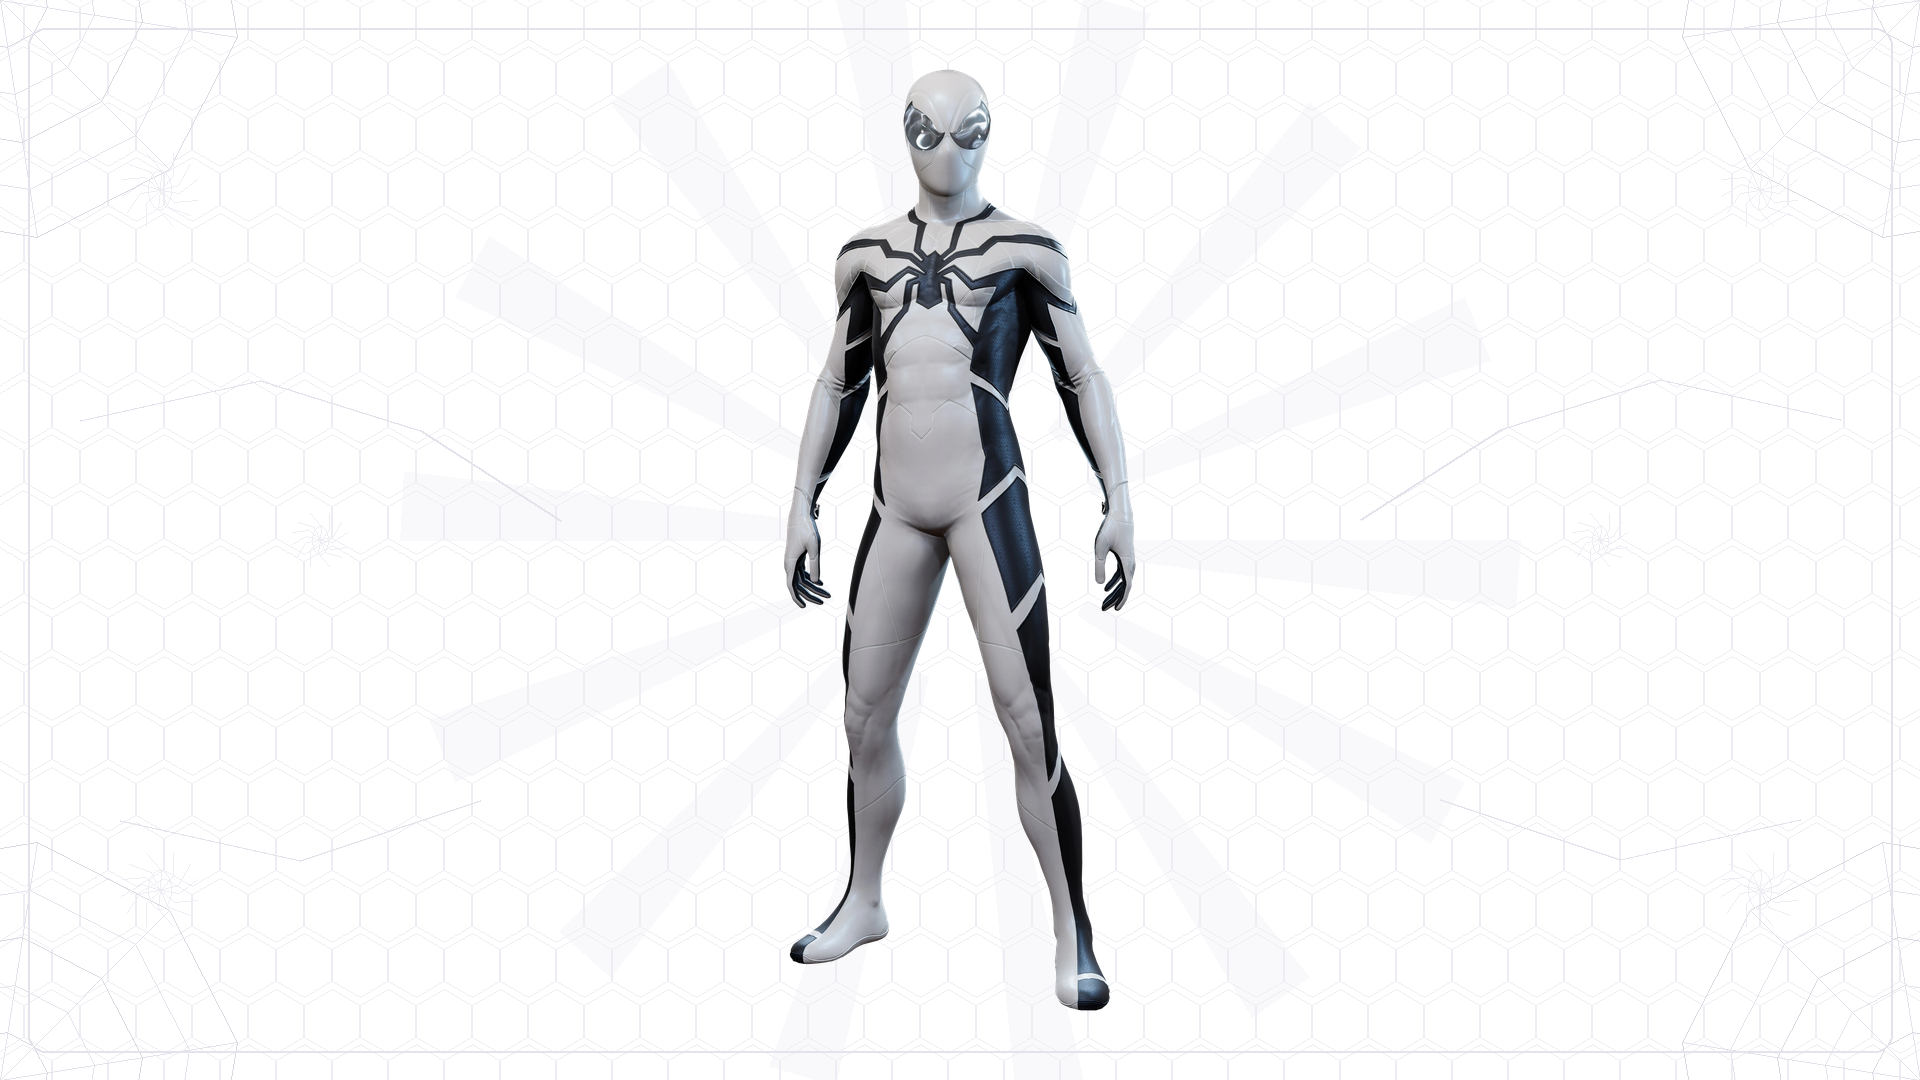
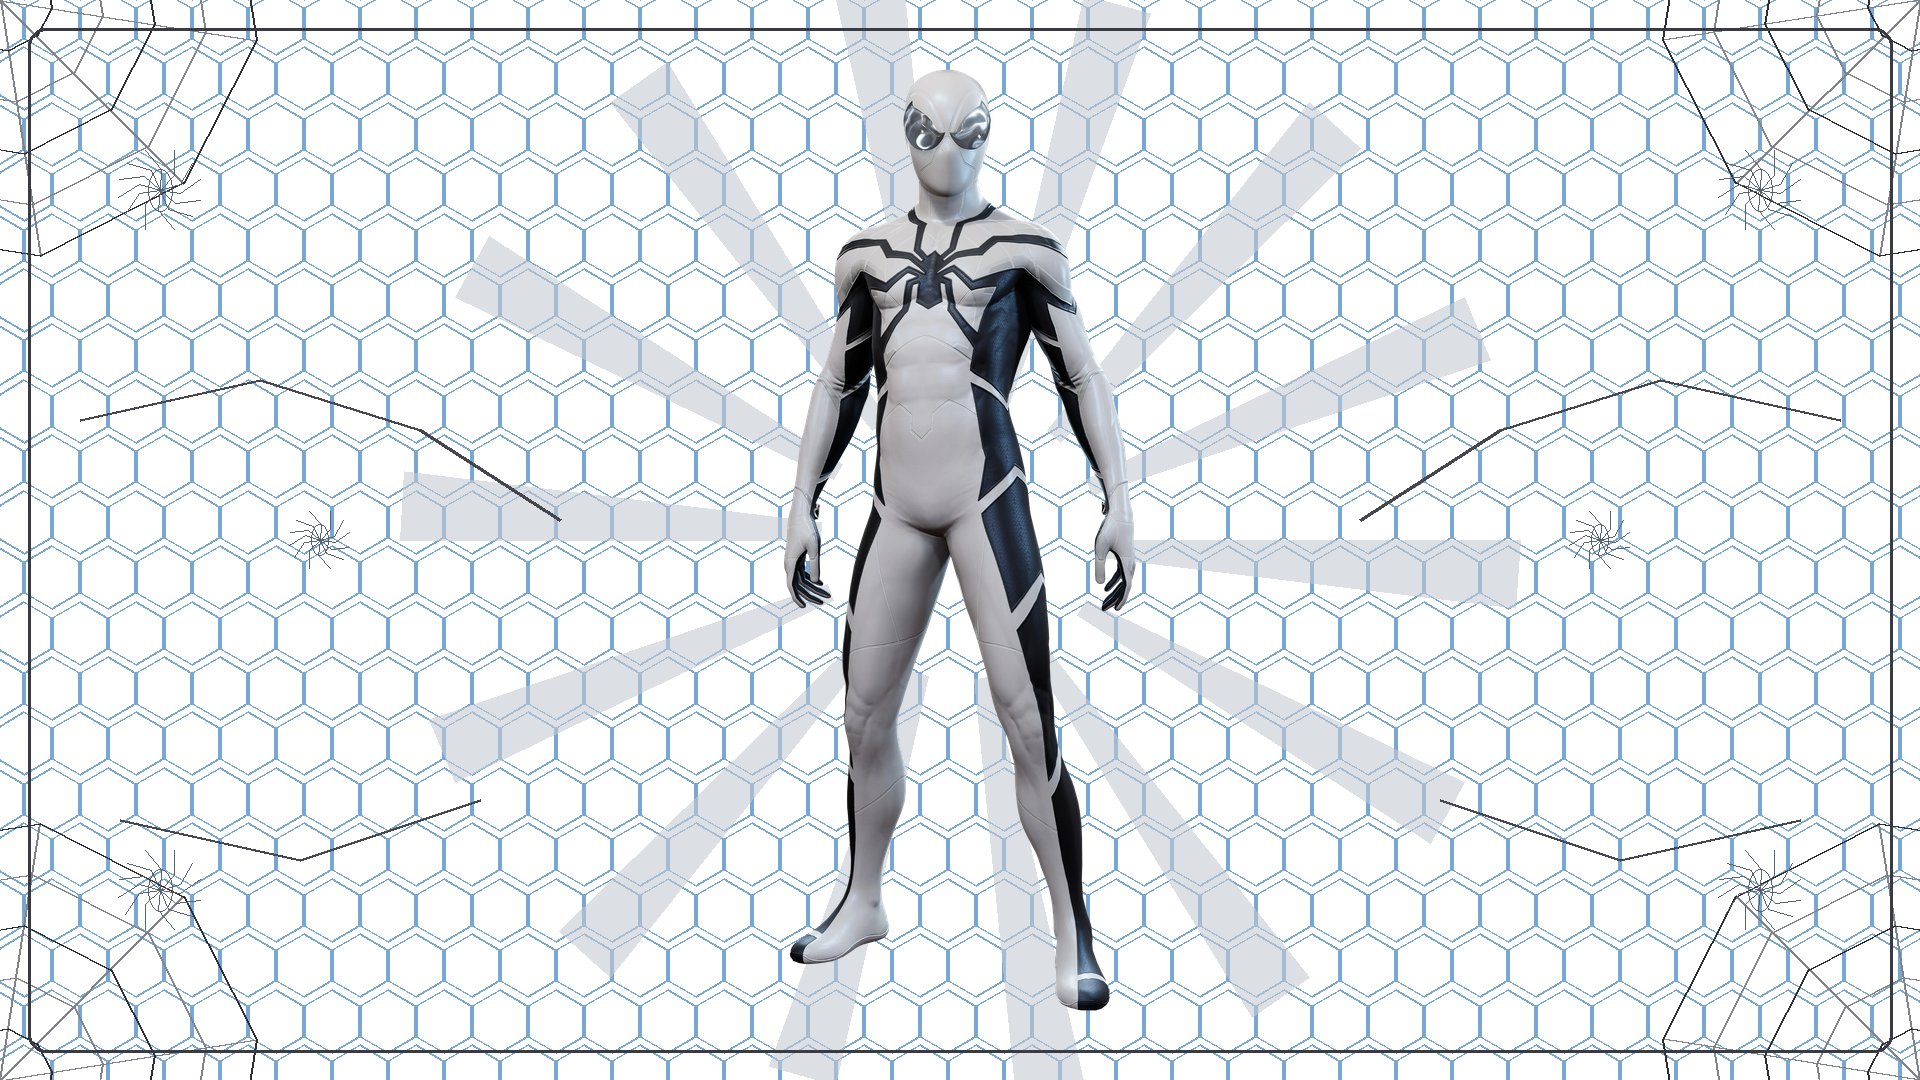
Increase motif visibility on white slides with harmonizing accent colors
Use light blue hex grids, grey webs, charcoal swooshes, and darker burst
rays so background decoration reads clearly while keeping a white base.

Changed region(s): [[0.0, 0.0, 1.0, 1.0], [0.5312, 0.3667, 0.5625, 0.4278], [0.4375, 0.3667, 0.4688, 0.3972]]

diff --git a/presentation/create_color_slide.py b/presentation/create_color_slide.py
@@ -5,6 +5,7 @@ from __future__ import annotations
 
 import argparse
 import math
+from dataclasses import dataclass
 from pathlib import Path
 
 from PIL import Image, ImageDraw
@@ -42,27 +43,60 @@ def resolve_color(color: str) -> tuple[int, int, int]:
     raise ValueError(f"Unknown color: {color}")
 
 
-def _motif_palette(bg_rgb: tuple[int, int, int]) -> tuple[tuple[int, int, int], tuple[int, int, int], tuple[int, int, int]]:
-    """Return subtle motif colors that stay harmonious with the slide background."""
+@dataclass(frozen=True)
+class MotifPalette:
+    hex_grid: tuple[int, int, int]
+    web_primary: tuple[int, int, int]
+    web_accent: tuple[int, int, int]
+    burst: tuple[int, int, int]
+    burst_alpha: int
+    emblem: tuple[int, int, int]
+    swoosh: tuple[int, int, int]
+    border: tuple[int, int, int]
+    hex_width: int = 2
+    web_width: int = 2
+    border_width: int = 3
+
+
+def _motif_palette(bg_rgb: tuple[int, int, int]) -> MotifPalette:
+    """Return motif colors tuned for visibility on the slide background."""
     r, g, b = bg_rgb
     luminance = 0.299 * r + 0.587 * g + 0.114 * b
 
     if luminance > 200:
-        return (
-            (max(0, r - 18), max(0, g - 18), max(0, b - 12)),
-            (max(0, r - 28), max(0, g - 28), max(0, b - 20)),
-            (max(0, r - 38), max(0, g - 38), max(0, b - 30)),
+        return MotifPalette(
+            hex_grid=(120, 168, 210),
+            web_primary=(130, 130, 138),
+            web_accent=(45, 45, 52),
+            burst=(196, 200, 208),
+            burst_alpha=150,
+            emblem=(88, 98, 112),
+            swoosh=(70, 70, 78),
+            border=(58, 58, 66),
+            hex_width=2,
+            web_width=2,
+            border_width=3,
         )
     if luminance < 55:
-        return (
-            (min(255, r + 22), min(255, g + 22), min(255, b + 22)),
-            (min(255, r + 14), min(255, g + 14), min(255, b + 14)),
-            (min(255, r + 8), min(255, g + 8), min(255, b + 8)),
+        return MotifPalette(
+            hex_grid=(110, 150, 190),
+            web_primary=(170, 170, 178),
+            web_accent=(220, 220, 228),
+            burst=(40, 42, 48),
+            burst_alpha=120,
+            emblem=(150, 158, 170),
+            swoosh=(190, 190, 198),
+            border=(210, 210, 218),
         )
-    return (
-        (min(255, r + 30), min(255, g + 30), min(255, b + 30)),
-        (min(255, r + 18), min(255, g + 18), min(255, b + 18)),
-        (max(0, r - 18), max(0, g - 18), max(0, b - 18)),
+    return MotifPalette(
+        hex_grid=(min(255, r + 40), min(255, g + 40), min(255, b + 55)),
+        web_primary=(max(0, r - 40), max(0, g - 40), max(0, b - 35)),
+        web_accent=(max(0, r - 70), max(0, g - 70), max(0, b - 60)),
+        burst=(min(255, r + 25), min(255, g + 25), min(255, b + 25)),
+        burst_alpha=130,
+        emblem=(max(0, r - 55), max(0, g - 50), max(0, b - 45)),
+        swoosh=(max(0, r - 65), max(0, g - 65), max(0, b - 60)),
+        border=(max(0, r - 75), max(0, g - 75), max(0, b - 70)),
     )
 
 
@@ -81,25 +115,6 @@ def _draw_hexagon(
     draw.polygon(points, outline=color, width=width)
 
 
-def _draw_hex_grid(
-    draw: ImageDraw.ImageDraw,
-    width: int,
-    height: int,
-    color: tuple[int, int, int],
-    radius: float = 34,
-) -> None:
-    """Future Foundation-style hex grid."""
-    step_x = radius * 1.75
-    step_y = radius * math.sqrt(3)
-    cols = int(width / step_x) + 3
-    rows = int(height / step_y) + 3
-    for row in range(rows):
-        for col in range(cols):
-            cx = col * step_x + (row % 2) * (step_x / 2) - radius
-            cy = row * step_y - radius
-            _draw_hexagon(draw, cx, cy, radius, color, width=1)
-
-
 def _draw_corner_web(
     draw: ImageDraw.ImageDraw,
     origin: tuple[float, float],
@@ -107,6 +122,7 @@ def _draw_corner_web(
     color: tuple[int, int, int],
     accent: tuple[int, int, int],
     size: float = 220,
+    line_width: int = 1,
 ) -> None:
     """Spider-web motif anchored in a corner."""
     ox, oy = origin
@@ -116,7 +132,7 @@ def _draw_corner_web(
         angle = math.radians(angle_deg + i * (360 / spokes))
         ex = ox + max_radius * math.cos(angle)
         ey = oy + max_radius * math.sin(angle)
-        draw.line((ox, oy, ex, ey), fill=color, width=1)
+        draw.line((ox, oy, ex, ey), fill=color, width=line_width)
 
     rings = 5
     for ring in range(1, rings + 1):
@@ -128,7 +144,11 @@ def _draw_corner_web(
         for i in range(spokes):
             p1 = points[i]
             p2 = points[(i + 1) % spokes]
-            draw.line((p1[0], p1[1], p2[0], p2[1]), fill=accent if ring % 2 else color, width=1)
+            draw.line(
+                (p1[0], p1[1], p2[0], p2[1]),
+                fill=accent if ring % 2 else color,
+                width=line_width,
+            )
 
 
 def _draw_spider_emblem(
@@ -190,18 +210,45 @@ def _draw_action_swoosh(
         draw.line(points, fill=color, width=width, joint="curve")
 
 
+def _draw_hex_grid(
+    draw: ImageDraw.ImageDraw,
+    width: int,
+    height: int,
+    color: tuple[int, int, int],
+    radius: float = 34,
+    line_width: int = 1,
+) -> None:
+    """Future Foundation-style hex grid."""
+    step_x = radius * 1.75
+    step_y = radius * math.sqrt(3)
+    cols = int(width / step_x) + 3
+    rows = int(height / step_y) + 3
+    for row in range(rows):
+        for col in range(cols):
+            cx = col * step_x + (row % 2) * (step_x / 2) - radius
+            cy = row * step_y - radius
+            _draw_hexagon(draw, cx, cy, radius, color, width=line_width)
+
+
 def draw_superhero_motifs(slide: Image.Image, bg_rgb: tuple[int, int, int]) -> None:
-    """Layer subtle superhero motifs that match the center character theme."""
+    """Layer superhero motifs that match the center character theme."""
     width, height = slide.size
     draw = ImageDraw.Draw(slide)
-    light, medium, strong = _motif_palette(bg_rgb)
+    palette = _motif_palette(bg_rgb)
     cx, cy = width / 2, height / 2
 
-    _draw_hex_grid(draw, width, height, light, radius=32)
+    _draw_hex_grid(
+        draw,
+        width,
+        height,
+        palette.hex_grid,
+        radius=32,
+        line_width=palette.hex_width,
+    )
 
     burst_layer = Image.new("RGBA", slide.size, (0, 0, 0, 0))
     burst_draw = ImageDraw.Draw(burst_layer)
-    burst_color = (*light, 90)
+    burst_color = (*palette.burst, palette.burst_alpha)
     for i in range(28):
         a1 = math.radians(i * 360 / 28)
         a2 = math.radians((i + 0.55) * 360 / 28)
@@ -223,18 +270,26 @@ def draw_superhero_motifs(slide: Image.Image, bg_rgb: tuple[int, int, int]) -> N
         (width, height, -135),
     ]
     for x, y, angle in corners:
-        _draw_corner_web(draw, (x, y), angle, medium, strong, size=240)
+        _draw_corner_web(
+            draw,
+            (x, y),
+            angle,
+            palette.web_primary,
+            palette.web_accent,
+            size=260,
+            line_width=palette.web_width,
+        )
 
     emblem_spots = [
-        (160, 190, 1.4),
-        (width - 160, 190, 1.4),
-        (160, height - 190, 1.4),
-        (width - 160, height - 190, 1.4),
-        (320, height / 2, 1.0),
-        (width - 320, height / 2, 1.0),
+        (160, 190, 1.5),
+        (width - 160, 190, 1.5),
+        (160, height - 190, 1.5),
+        (width - 160, height - 190, 1.5),
+        (320, height / 2, 1.1),
+        (width - 320, height / 2, 1.1),
     ]
     for ex, ey, scale in emblem_spots:
-        _draw_spider_emblem(draw, ex, ey, scale, light)
+        _draw_spider_emblem(draw, ex, ey, scale, palette.emblem)
 
     swooshes = [
         [(80, 420), (260, 380), (420, 430), (560, 520)],
@@ -243,14 +298,14 @@ def draw_superhero_motifs(slide: Image.Image, bg_rgb: tuple[int, int, int]) -> N
         [(width - 120, height - 260), (width - 300, height - 220), (width - 480, height - 280)],
     ]
     for pts in swooshes:
-        _draw_action_swoosh(draw, pts, medium, width=2)
+        _draw_action_swoosh(draw, pts, palette.swoosh, width=3)
 
     border_inset = 28
     draw.rounded_rectangle(
         (border_inset, border_inset, width - border_inset, height - border_inset),
         radius=18,
-        outline=medium,
-        width=2,
+        outline=palette.border,
+        width=palette.border_width,
     )
 
 
